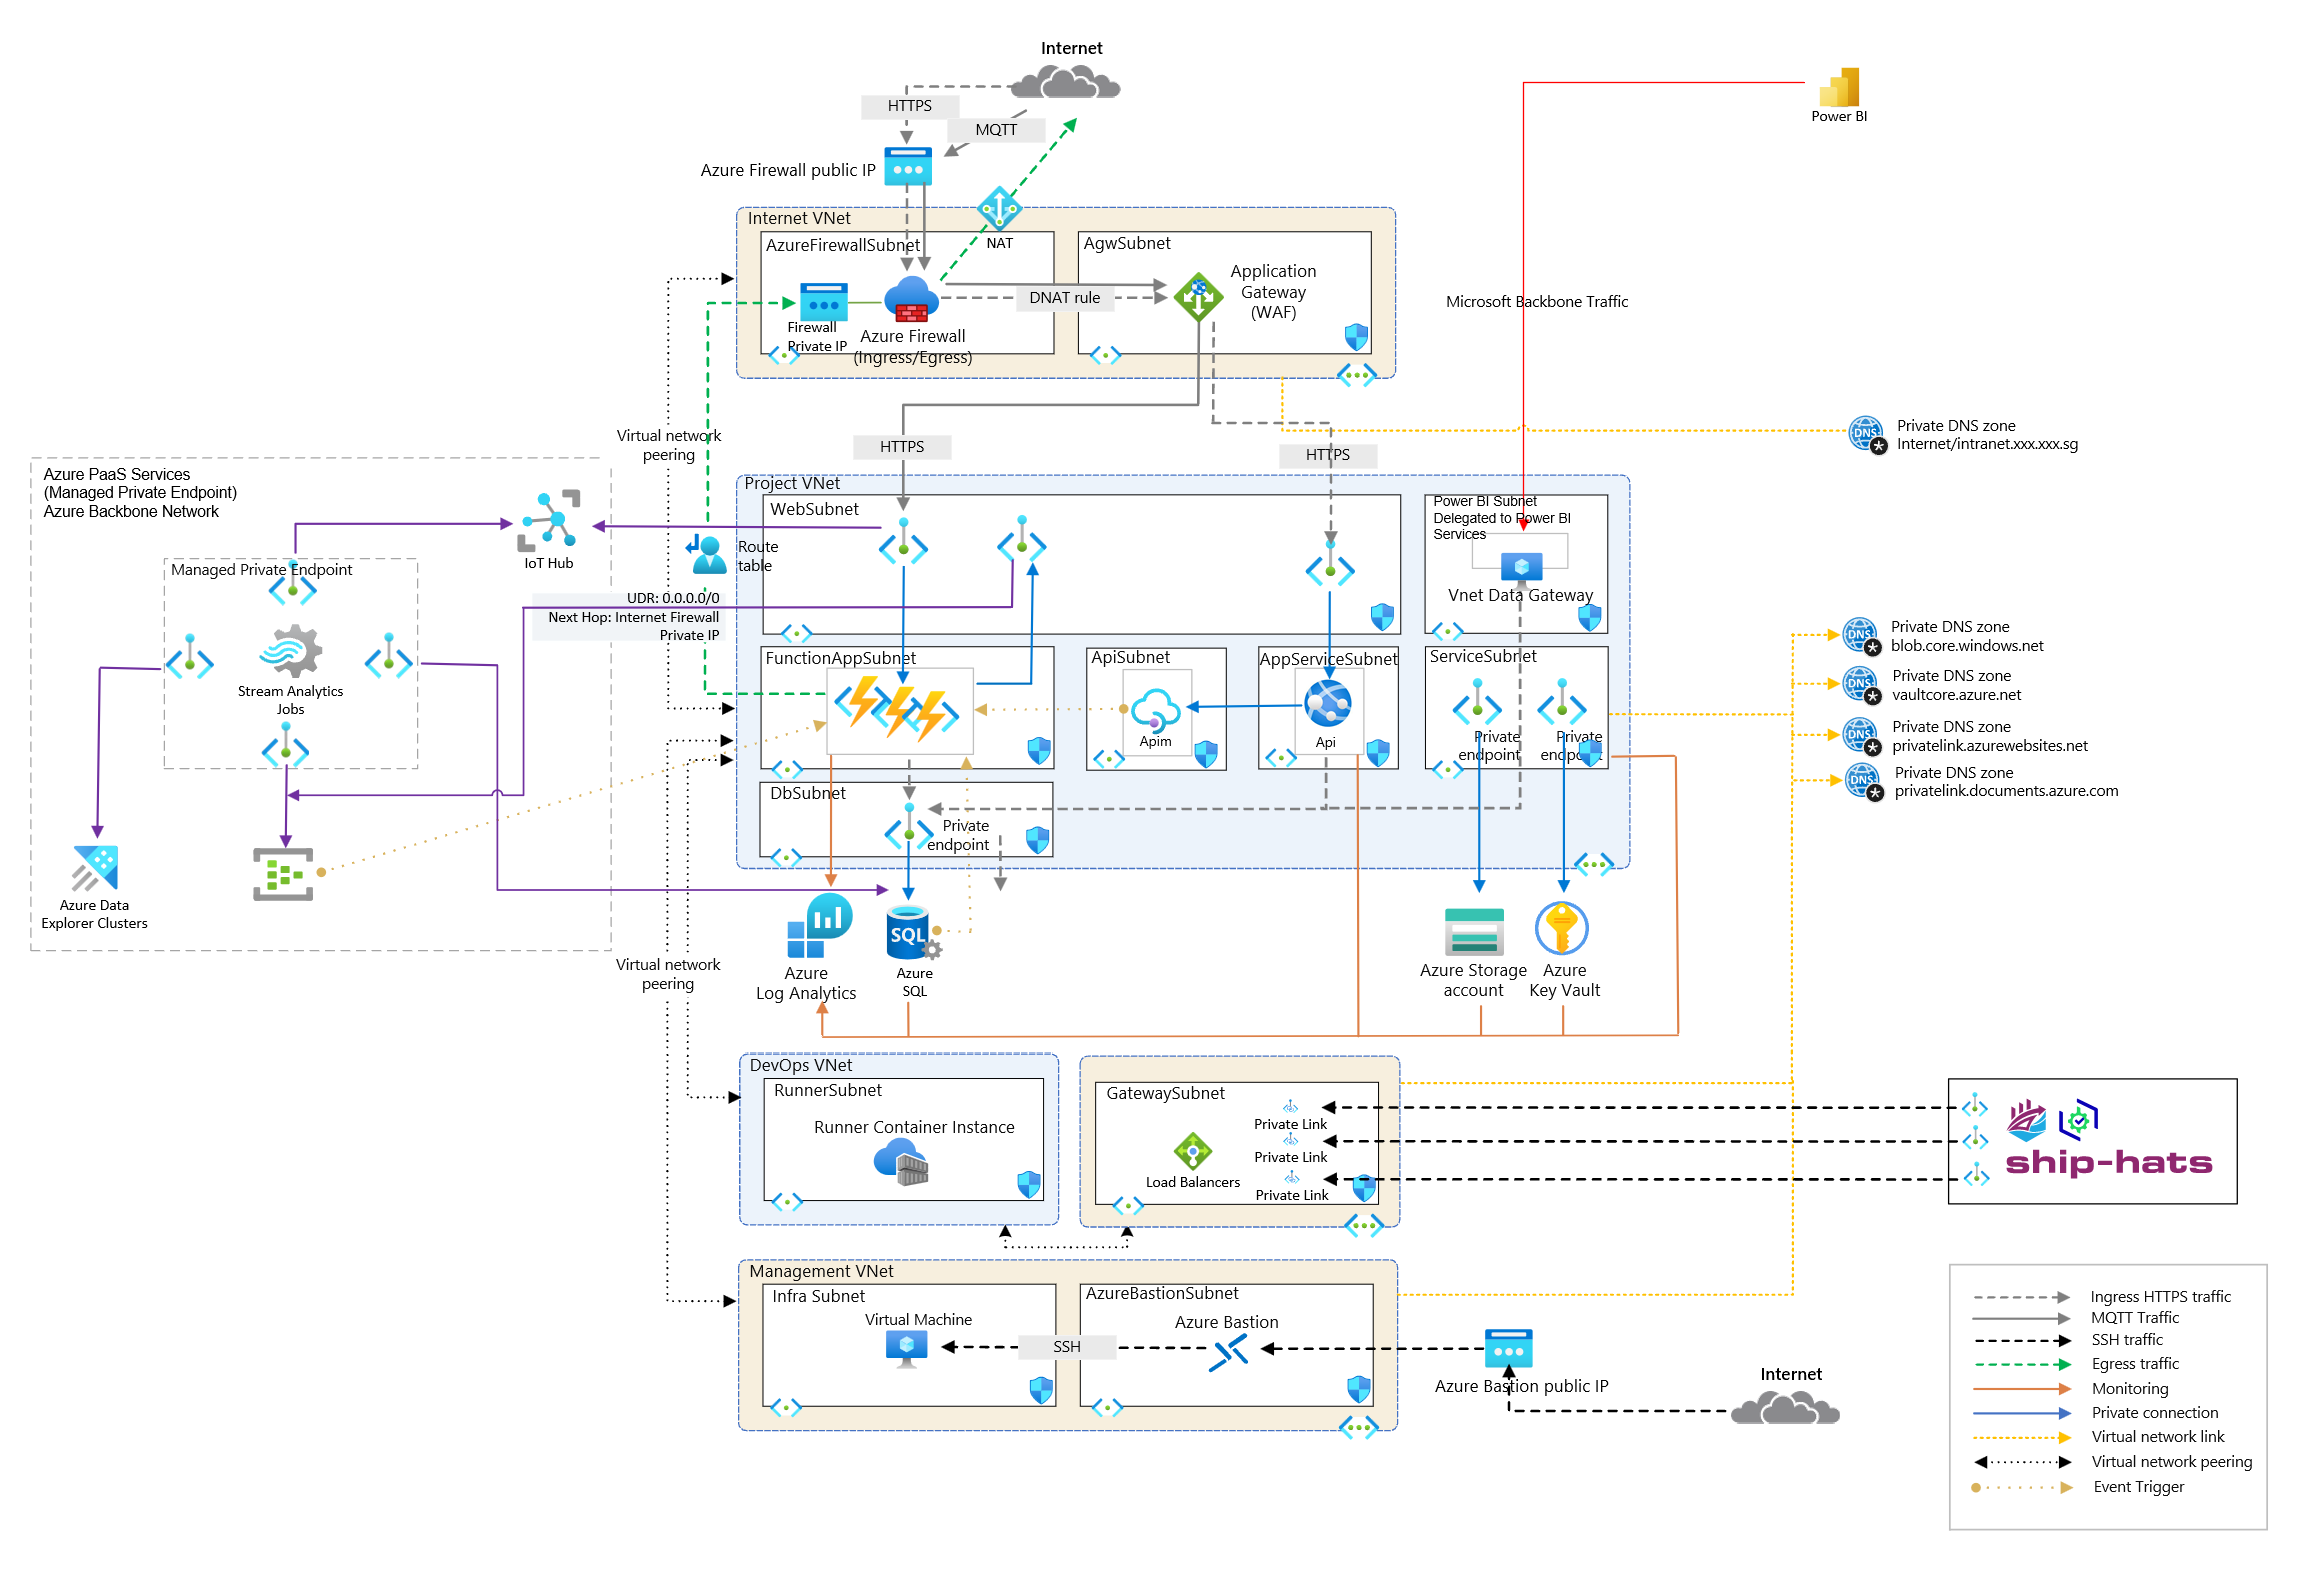
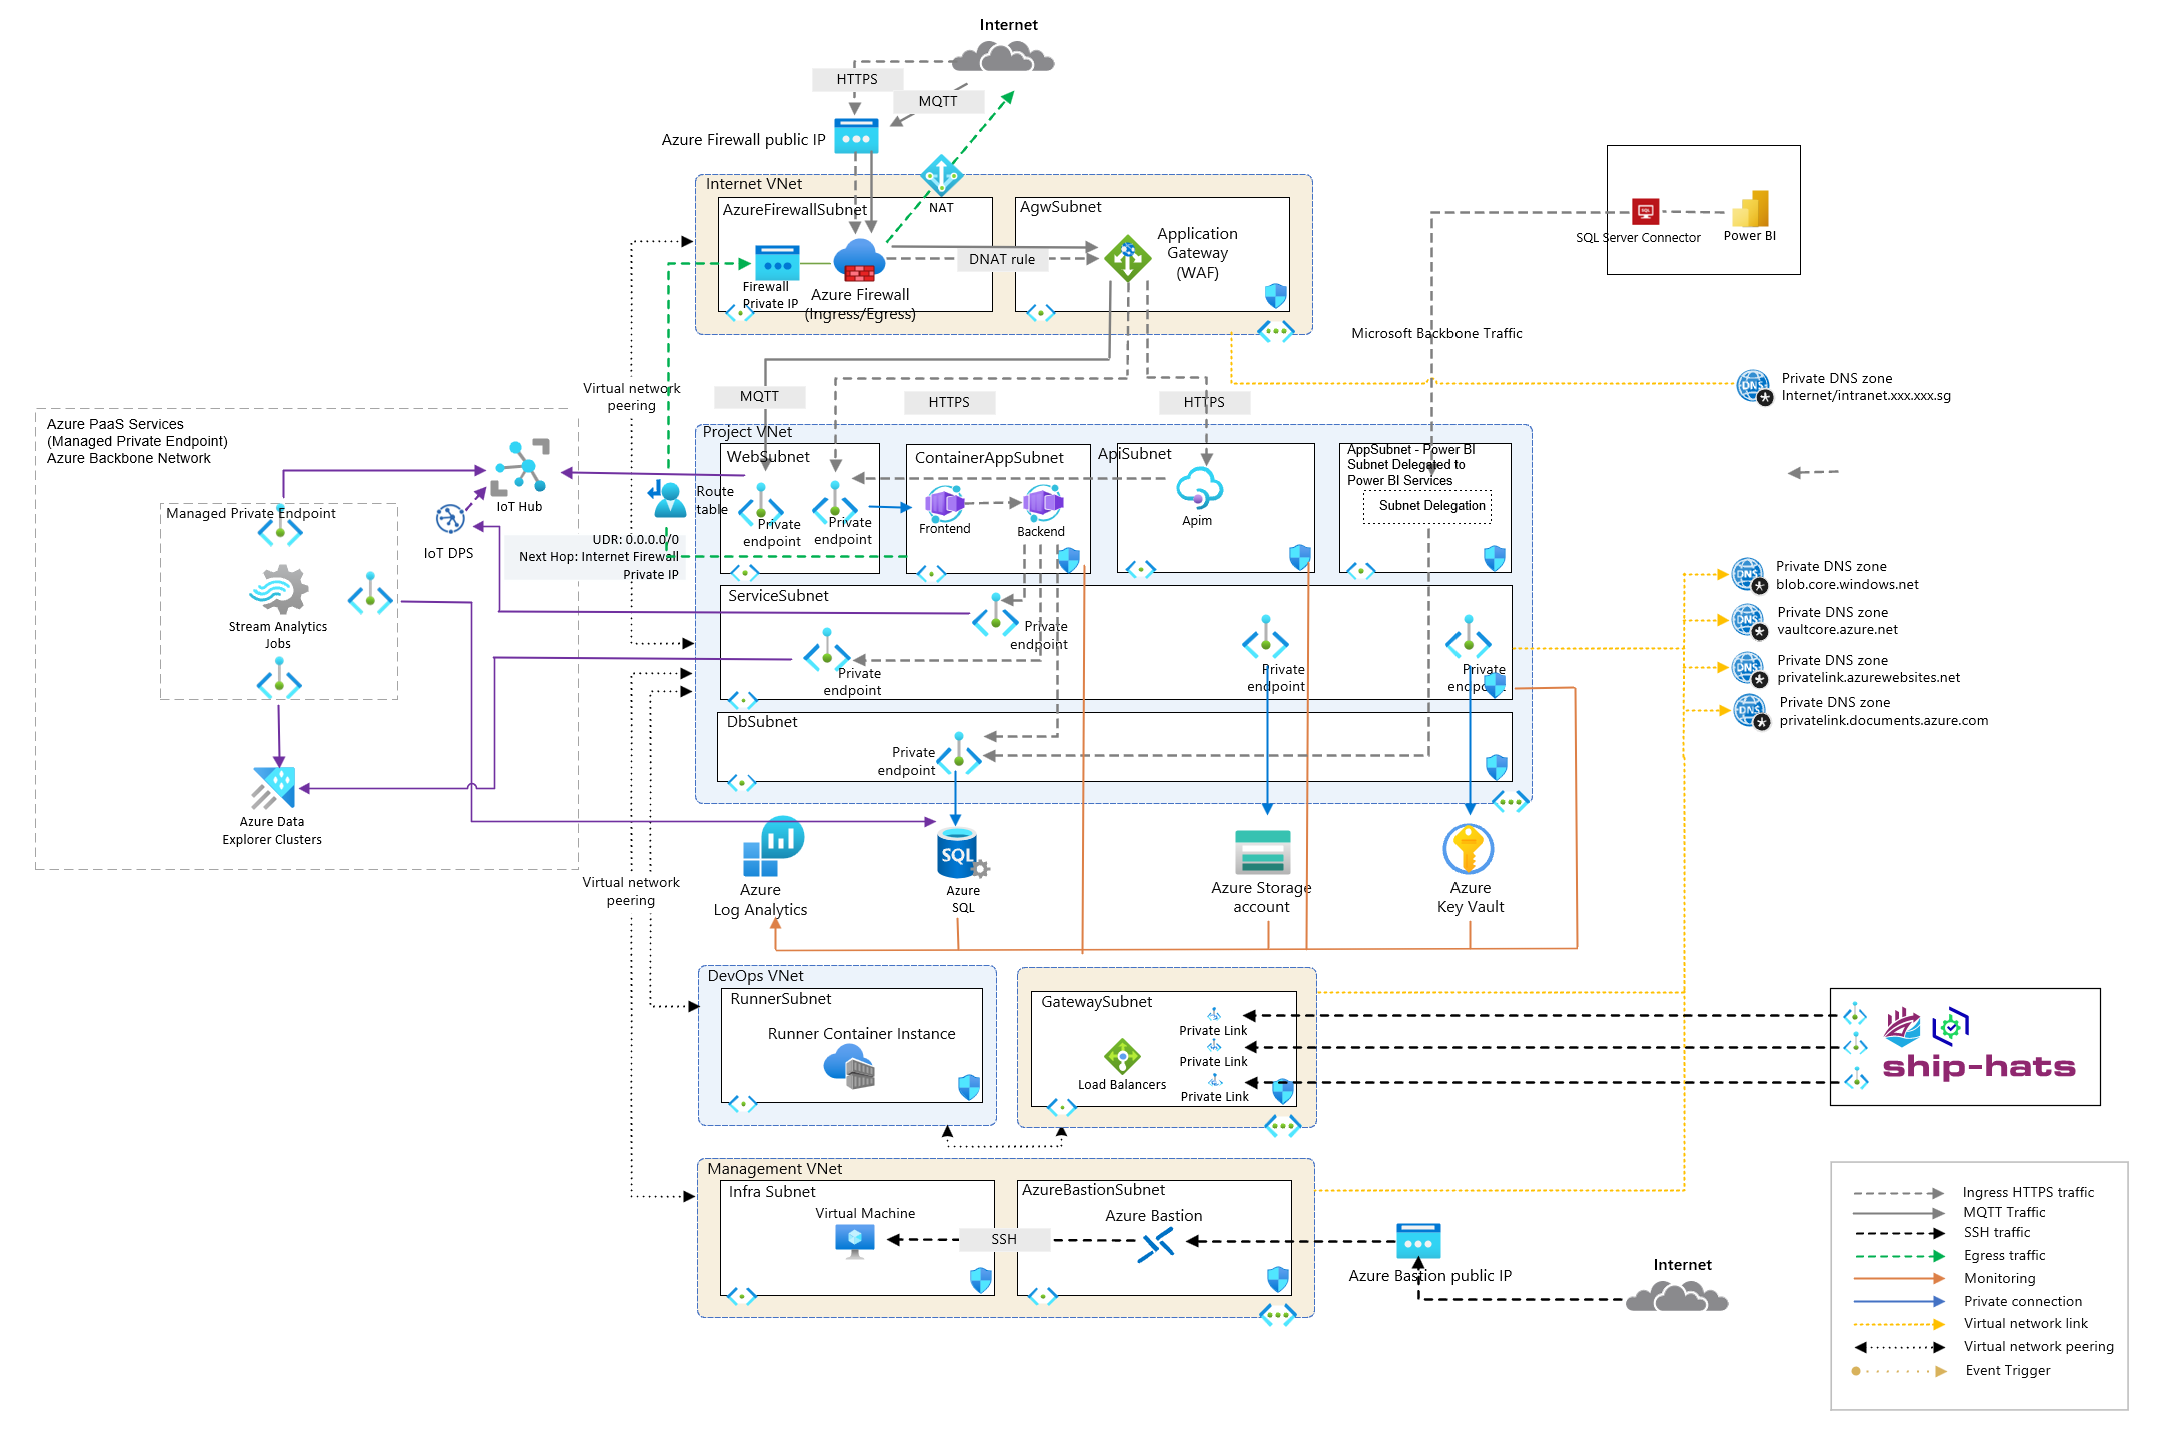
fixed issues with IoT

diff --git a/terraform/modules/landingzone/configuration/2-solution_accelerators/project/data_explorer/example/README.md b/terraform/modules/landingzone/configuration/2-solution_accelerators/project/data_explorer/example/README.md
@@ -4,9 +4,9 @@
 
 # prepare and create launchpad - only run once per subscription
 
-sudo chmod -R -f 777 /tf/avm/terraform/modules/landingzone/configuration/0-launchpad/scripts
+sudo chmod -R -f 777 /tf/avm/gcc_starter_kit/landingzone/configuration/0-launchpad/scripts
 
-cd /tf/avm/terraform/modules/landingzone/configuration/0-launchpad/scripts
+cd /tf/avm/gcc_starter_kit/landingzone/configuration/0-launchpad/scripts
 
 PREFIX="aoaiuat"
 echo $PREFIX
@@ -14,7 +14,7 @@ echo $PREFIX
 ./launchpad.sh $PREFIX
 
 # goto solution accelerator folder
-cd /tf/avm/terraform/modules/landingzone/configuration/2-solution_accelerators/project/acr
+cd /tf/avm/gcc_starter_kit/landingzone/configuration/2-solution_accelerators/project/acr
 
 # get subscription id
 ACCOUNT_INFO=$(az account show 2> /dev/null)
@@ -72,7 +72,7 @@ terraform apply -auto-approve \
 # ------------------------------------------------------------------
 
 # create terraform.tfvars file
-cat <<EOF | sudo tee /tf/avm/terraform/modules/landingzone/configuration/2-solution_accelerators/project/acr/example/terraform.tfvars
+cat <<EOF | sudo tee /tf/avm/gcc_starter_kit/landingzone/configuration/2-solution_accelerators/project/acr/example/terraform.tfvars
 storage_account_name="${STG_NAME}"
 resource_group_name="${RG_NAME}"
 vnet_id="${VNET_ID}"
@@ -82,7 +82,7 @@ prefix="${PROJECT_CODE}"
 environment="${ENV}"
 EOF
 
-sudo chmod -R -f 777 /tf/avm/terraform/modules/landingzone/configuration/2-solution_accelerators/project/acr/example/terraform.tfvars
+sudo chmod -R -f 777 /tf/avm/gcc_starter_kit/landingzone/configuration/2-solution_accelerators/project/acr/example/terraform.tfvars
 
 terraform init  -reconfigure \
 -backend-config="resource_group_name=${RG_NAME}" \
@@ -91,8 +91,8 @@ terraform init  -reconfigure \
 -backend-config="key=solution_accelerators-project-acr.tfstate"
 
 terraform plan \
--var-file="/tf/avm/terraform/modules/landingzone/configuration/2-solution_accelerators/project/acr/example/terraform.tfvars" 
+-var-file="/tf/avm/gcc_starter_kit/landingzone/configuration/2-solution_accelerators/project/acr/example/terraform.tfvars" 
 
 terraform apply -auto-approve \
--var-file="/tf/avm/terraform/modules/landingzone/configuration/2-solution_accelerators/project/acr/example/terraform.tfvars" 
+-var-file="/tf/avm/gcc_starter_kit/landingzone/configuration/2-solution_accelerators/project/acr/example/terraform.tfvars" 
 

diff --git a/terraform/modules/landingzone/configuration/2-solution_accelerators/project/iot_hub/example/README.md b/terraform/modules/landingzone/configuration/2-solution_accelerators/project/iot_hub/example/README.md
@@ -4,9 +4,9 @@
 
 # prepare and create launchpad - only run once per subscription
 
-sudo chmod -R -f 777 /tf/avm/terraform/modules/landingzone/configuration/0-launchpad/scripts
+sudo chmod -R -f 777 /tf/avm/gcc_starter_kit/landingzone/configuration/0-launchpad/scripts
 
-cd /tf/avm/terraform/modules/landingzone/configuration/0-launchpad/scripts
+cd /tf/avm/gcc_starter_kit/landingzone/configuration/0-launchpad/scripts
 
 PREFIX="aoaiuat"
 echo $PREFIX
@@ -14,7 +14,7 @@ echo $PREFIX
 ./launchpad.sh $PREFIX
 
 # goto solution accelerator folder
-cd /tf/avm/terraform/modules/landingzone/configuration/2-solution_accelerators/project/acr
+cd /tf/avm/gcc_starter_kit/landingzone/configuration/2-solution_accelerators/project/acr
 
 # get subscription id
 ACCOUNT_INFO=$(az account show 2> /dev/null)
@@ -72,7 +72,7 @@ terraform apply -auto-approve \
 # ------------------------------------------------------------------
 
 # create terraform.tfvars file
-cat <<EOF | sudo tee /tf/avm/terraform/modules/landingzone/configuration/2-solution_accelerators/project/acr/example/terraform.tfvars
+cat <<EOF | sudo tee /tf/avm/gcc_starter_kit/landingzone/configuration/2-solution_accelerators/project/acr/example/terraform.tfvars
 storage_account_name="${STG_NAME}"
 resource_group_name="${RG_NAME}"
 vnet_id="${VNET_ID}"
@@ -82,7 +82,7 @@ prefix="${PROJECT_CODE}"
 environment="${ENV}"
 EOF
 
-sudo chmod -R -f 777 /tf/avm/terraform/modules/landingzone/configuration/2-solution_accelerators/project/acr/example/terraform.tfvars
+sudo chmod -R -f 777 /tf/avm/gcc_starter_kit/landingzone/configuration/2-solution_accelerators/project/acr/example/terraform.tfvars
 
 terraform init  -reconfigure \
 -backend-config="resource_group_name=${RG_NAME}" \
@@ -91,8 +91,8 @@ terraform init  -reconfigure \
 -backend-config="key=solution_accelerators-project-acr.tfstate"
 
 terraform plan \
--var-file="/tf/avm/terraform/modules/landingzone/configuration/2-solution_accelerators/project/acr/example/terraform.tfvars" 
+-var-file="/tf/avm/gcc_starter_kit/landingzone/configuration/2-solution_accelerators/project/acr/example/terraform.tfvars" 
 
 terraform apply -auto-approve \
--var-file="/tf/avm/terraform/modules/landingzone/configuration/2-solution_accelerators/project/acr/example/terraform.tfvars" 
+-var-file="/tf/avm/gcc_starter_kit/landingzone/configuration/2-solution_accelerators/project/acr/example/terraform.tfvars" 
 

diff --git a/terraform/modules/landingzone/configuration/2-solution_accelerators/project/container_app/README.md b/terraform/modules/landingzone/configuration/2-solution_accelerators/project/container_app/README.md
@@ -1,8 +1,11 @@
 #!/bin/bash
 
+# ** IMPORTANT **: Provided subnet "ContainerAppSubnet" must have a size of at least /23
+
+
 # Extract the value of 'prefix' using yq and assign it to the PREFIX variable and generate resource group name to store state file
 
-PREFIX=$(yq  -r '.prefix' /tf/avm/terraform/modules/landingzone/configuration/0-launchpad/scripts/config.yaml)
+PREFIX=$(yq  -r '.prefix' /tf/avm/gcc_starter_kit/landingzone/configuration/0-launchpad/scripts/config.yaml)
 RG_NAME="${PREFIX}-rg-launchpad"
 STG_NAME=$(az storage account list --resource-group $RG_NAME --query "[?contains(name, '${PREFIX//-/}stgtfstate')].[name]" -o tsv 2>/dev/null | head -n 1)
 echo $RG_NAME
@@ -14,7 +17,7 @@ echo $SUBSCRIPTION_ID
 
 # deploy the solution accelerator
 
-cd /tf/avm/terraform/modules/landingzone/configuration/2-solution_accelerators/project/container_app
+cd /tf/avm/gcc_starter_kit/landingzone/configuration/2-solution_accelerators/project/container_app
 
 terraform init  -reconfigure \
 -backend-config="resource_group_name=${RG_NAME}" \

diff --git a/terraform/modules/landingzone/configuration/2-solution_accelerators/project/data_explorer/README.md b/terraform/modules/landingzone/configuration/2-solution_accelerators/project/data_explorer/README.md
@@ -2,7 +2,7 @@
 
 # Extract the value of 'prefix' using yq and assign it to the PREFIX variable and generate resource group name to store state file
 
-PREFIX=$(yq  -r '.prefix' /tf/avm/terraform/modules/landingzone/configuration/0-launchpad/scripts/config.yaml)
+PREFIX=$(yq  -r '.prefix' /tf/avm/gcc_starter_kit/landingzone/configuration/0-launchpad/scripts/config.yaml)
 RG_NAME="${PREFIX}-rg-launchpad"
 STG_NAME=$(az storage account list --resource-group $RG_NAME --query "[?contains(name, '${PREFIX//-/}stgtfstate')].[name]" -o tsv 2>/dev/null | head -n 1)
 echo $RG_NAME
@@ -10,7 +10,7 @@ echo $STG_NAME
 
 # deploy the solution accelerator
 
-cd /tf/avm/terraform/modules/landingzone/configuration/2-solution_accelerators/project/data_explorer
+cd /tf/avm/gcc_starter_kit/landingzone/configuration/2-solution_accelerators/project/data_explorer
 
 terraform init  -reconfigure \
 -backend-config="resource_group_name=${RG_NAME}" \

diff --git a/terraform/modules/landingzone/configuration/2-solution_accelerators/project/iot_hub/README.md b/terraform/modules/landingzone/configuration/2-solution_accelerators/project/iot_hub/README.md
@@ -2,7 +2,7 @@
 
 # Extract the value of 'prefix' using yq and assign it to the PREFIX variable and generate resource group name to store state file
 
-PREFIX=$(yq  -r '.prefix' /tf/avm/terraform/modules/landingzone/configuration/0-launchpad/scripts/config.yaml)
+PREFIX=$(yq  -r '.prefix' /tf/avm/gcc_starter_kit/landingzone/configuration/0-launchpad/scripts/config.yaml)
 RG_NAME="${PREFIX}-rg-launchpad"
 STG_NAME=$(az storage account list --resource-group $RG_NAME --query "[?contains(name, '${PREFIX//-/}stgtfstate')].[name]" -o tsv 2>/dev/null | head -n 1)
 echo $RG_NAME
@@ -10,7 +10,7 @@ echo $STG_NAME
 
 # deploy the solution accelerator
 
-cd /tf/avm/terraform/modules/landingzone/configuration/2-solution_accelerators/project/iot_hub
+cd /tf/avm/gcc_starter_kit/landingzone/configuration/2-solution_accelerators/project/iot_hub
 
 terraform init  -reconfigure \
 -backend-config="resource_group_name=${RG_NAME}" \

diff --git a/terraform/modules/landingzone/configuration/2-solution_accelerators/project/container_app/example/README.md b/terraform/modules/landingzone/configuration/2-solution_accelerators/project/container_app/example/README.md
@@ -4,9 +4,9 @@
 
 # prepare and create launchpad - only run once per subscription
 
-sudo chmod -R -f 777 /tf/avm/terraform/modules/landingzone/configuration/0-launchpad/scripts
+sudo chmod -R -f 777 /tf/avm/gcc_starter_kit/landingzone/configuration/0-launchpad/scripts
 
-cd /tf/avm/terraform/modules/landingzone/configuration/0-launchpad/scripts
+cd /tf/avm/gcc_starter_kit/landingzone/configuration/0-launchpad/scripts
 
 PREFIX="aaf"
 echo $PREFIX
@@ -14,7 +14,7 @@ echo $PREFIX
 ./launchpad.sh $PREFIX
 
 # goto solution accelerator folder
-cd /tf/avm/terraform/modules/landingzone/configuration/2-solution_accelerators/project/container_app
+cd /tf/avm/gcc_starter_kit/landingzone/configuration/2-solution_accelerators/project/container_app
 
 # get subscription id
 ACCOUNT_INFO=$(az account show 2> /dev/null)
